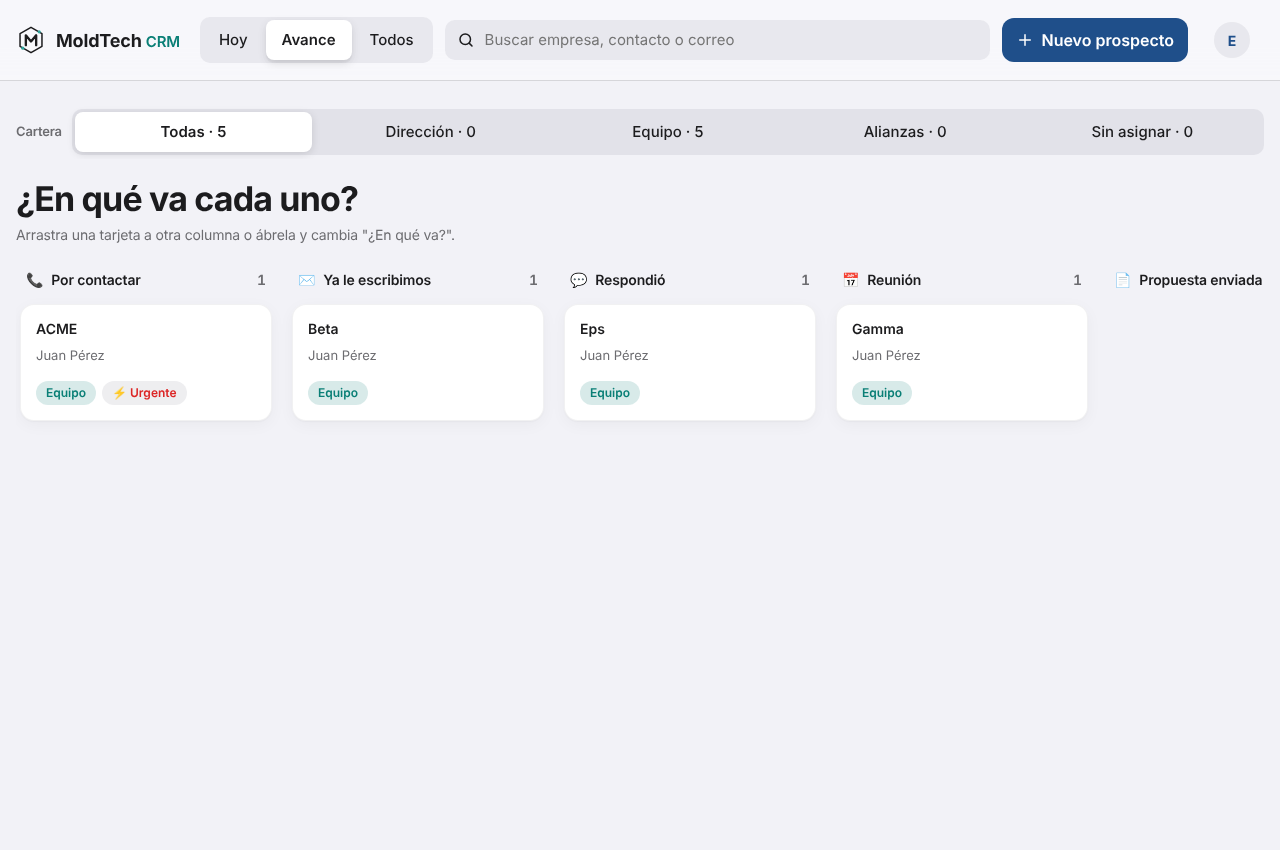
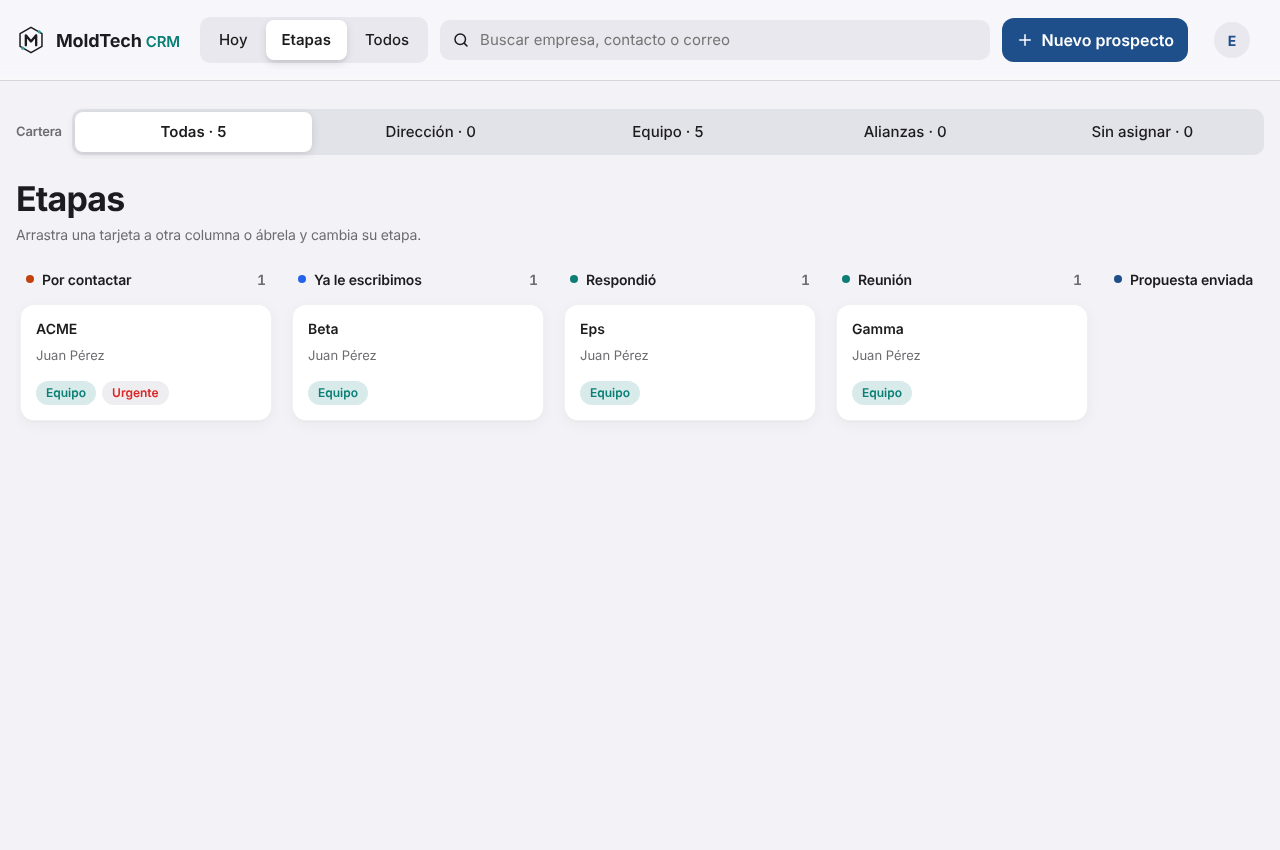
Etapa sin emojis, con color propio por etapa; pestaña Etapas
Claude-Session: https://claude.ai/code/session_01MitmXtYdvy7FH5b5YuCGFv

diff --git a/index.html b/index.html
@@ -361,11 +361,17 @@ button.kpi:active,.card:active,.row:active,.btn:not(:disabled):active,.tab:activ
 @media (max-width:720px){#dMsg{min-height:360px}}
 .chip.av0{background:color-mix(in srgb,var(--s-int) 15%,transparent);color:var(--s-int)}
 .chip.av1{background:color-mix(in srgb,var(--s-msg) 15%,transparent);color:var(--s-msg)}
-.chip.av2,.chip.av3{background:color-mix(in srgb,var(--s-reu) 15%,transparent);color:var(--s-reu)}
+.chip.av2{background:color-mix(in srgb,#8e44ec 14%,transparent);color:#8e44ec}.chip.av3{background:color-mix(in srgb,var(--s-reu) 15%,transparent);color:var(--s-reu)}
 .chip.av4{background:color-mix(in srgb,var(--primary) 15%,transparent);color:var(--primary)}
 .chip.av5{background:color-mix(in srgb,var(--s-cli) 15%,transparent);color:var(--s-cli)}
 .chip.av6{background:var(--muted);color:var(--muted-fg)}
 #f_notas{min-height:200px;line-height:1.55;font-size:16px}
+.col-h.av0{color:var(--s-int)}.col-h.av1{color:var(--s-msg)}.col-h.av2{color:#8e44ec}.col-h.av3{color:var(--s-reu)}.col-h.av4{color:var(--primary)}.col-h.av5{color:var(--s-cli)}.col-h.av6{color:var(--muted-fg)}
+#dAvance{font-weight:600}
+.avsel.av0{color:var(--s-int)}.avsel.av1{color:var(--s-msg)}.avsel.av2{color:#8e44ec}.avsel.av3{color:var(--s-reu)}.avsel.av4{color:var(--primary)}.avsel.av5{color:var(--s-cli)}.avsel.av6{color:var(--muted-fg)}
+.avsel option{color:var(--fg)}
+.card[class*=cav]{border-left:4px solid var(--c,transparent)}.cav0{--c:var(--s-int)}.cav1{--c:var(--s-msg)}.cav2{--c:#8e44ec}.cav3{--c:var(--s-reu)}.cav4{--c:var(--primary)}.cav5{--c:var(--s-cli)}.cav6{--c:var(--muted-fg)}
+@media (prefers-color-scheme:dark){.chip.av2,.col-h.av2,.avsel.av2{color:#bf8bff}.cav2{--c:#bf8bff}}
 </style>
 </head>
 <body>
@@ -389,7 +395,7 @@ button.kpi:active,.card:active,.row:active,.btn:not(:disabled):active,.tab:activ
   </div>
   <div class="tabs" role="tablist" aria-label="Vistas">
     <button class="tab" role="tab" data-view="hoy" aria-selected="true"><svg class="ico tico" viewBox="0 0 24 24" aria-hidden="true"><rect x="3" y="4.5" width="18" height="16" rx="3"/><path d="M3 9.5h18M8 2.5v4M16 2.5v4"/></svg><span>Hoy</span></button>
-    <button class="tab" role="tab" data-view="pipeline" aria-selected="false"><svg class="ico tico" viewBox="0 0 24 24" aria-hidden="true"><rect x="3" y="4" width="5" height="16" rx="1.5"/><rect x="10" y="4" width="5" height="11" rx="1.5"/><rect x="17" y="4" width="4" height="7" rx="1.5"/></svg><span>Avance</span></button>
+    <button class="tab" role="tab" data-view="pipeline" aria-selected="false"><svg class="ico tico" viewBox="0 0 24 24" aria-hidden="true"><rect x="3" y="4" width="5" height="16" rx="1.5"/><rect x="10" y="4" width="5" height="11" rx="1.5"/><rect x="17" y="4" width="4" height="7" rx="1.5"/></svg><span>Etapas</span></button>
     <button class="tab" role="tab" data-view="lista" aria-selected="false"><svg class="ico tico" viewBox="0 0 24 24" aria-hidden="true"><circle cx="9" cy="8" r="3.5"/><path d="M2.5 20c.6-3.6 3.3-5.5 6.5-5.5s5.9 1.9 6.5 5.5M16 4.5a3.5 3.5 0 0 1 0 7M18.5 14.8c1.7.8 2.8 2.5 3 5.2"/></svg><span>Todos</span></button>
   </div>
   <label class="search"><svg class="ico" aria-hidden="true"><use href="#i-search"/></svg><input id="q" type="search" placeholder="Buscar empresa, contacto o correo" aria-label="Buscar"></label>
@@ -421,7 +427,7 @@ button.kpi:active,.card:active,.row:active,.btn:not(:disabled):active,.tab:activ
 
   <!-- PIPELINE -->
   <section id="v-pipeline" class="view" hidden>
-    <div><h1>¿En qué va cada uno?</h1><p class="sub">Arrastra una tarjeta a otra columna o ábrela y cambia "¿En qué va?".</p></div>
+    <div><h1>Etapas</h1><p class="sub">Arrastra una tarjeta a otra columna o ábrela y cambia su etapa.</p></div>
     <div class="board" id="board"></div>
   </section>
 
@@ -455,10 +461,10 @@ button.kpi:active,.card:active,.row:active,.btn:not(:disabled):active,.tab:activ
   <div class="d-body">
     <div class="sec">
       <div class="grid2">
-        <div class="field"><label for="dAvance">¿En qué va?</label><select id="dAvance"></select></div>
+        <div class="field"><label for="dAvance">Etapa</label><select id="dAvance"></select></div>
         <div class="field"><label for="dCartera">¿Quién lo atiende?</label><select id="dCartera"><option value="">Sin asignar</option><option value="Dirección">Dirección</option><option value="Equipo">Equipo</option><option value="Alianzas">Alianzas</option></select></div>
       </div>
-      <label class="field" style="flex-direction:row;align-items:center;gap:8px;font-size:15px"><input id="dUrg" type="checkbox" style="width:22px;height:22px;min-height:0">⚡ Es urgente</label>
+      <label class="field" style="flex-direction:row;align-items:center;gap:8px;font-size:15px"><input id="dUrg" type="checkbox" style="width:22px;height:22px;min-height:0">Urgente</label>
       <p class="note" id="dAccion"></p>
     </div>
 
@@ -671,8 +677,7 @@ button.kpi:active,.card:active,.row:active,.btn:not(:disabled):active,.tab:activ
   const PRIO = {Alta:0,Media:1,Baja:2,Archivar:3};
   /* "¿En qué va?": un solo paso de avance, calculado de etapa+estado (el backend no cambia) */
   const AVANCES = ['Por contactar','Ya le escribimos','Respondió','Reunión','Propuesta enviada','Cliente','No le interesa'];
-  const AV_ICO = {'Por contactar':'📞','Ya le escribimos':'✉','Respondió':'💬','Reunión':'📅','Propuesta enviada':'📄','Cliente':'✅','No le interesa':'⏸'};
-  function avance(r){
+    function avance(r){
     if (r.estado==='Ganado' || r.etapa==='Cliente') return 'Cliente';
     if (['Perdido','Archivado'].includes(r.estado) || r.etapa==='Sin ajuste') return 'No le interesa';
     if (r.estado==='Reunión agendada' || r.etapa==='Reunión') return 'Reunión';
@@ -706,7 +711,7 @@ button.kpi:active,.card:active,.row:active,.btn:not(:disabled):active,.tab:activ
   function toast(t){ const el=$('#toast'); el.textContent=t; el.hidden=false; clearTimeout(toast.t); toast.t=setTimeout(()=>el.hidden=true,2600); }
   const stCls = e => 'st-' + String(e).split(' ')[0];
   const chipEtapa = e => `<span class="chip ${stCls(e)}"><span class="dot"></span>${esc(ETAPA_LBL[e]||e)}</span>`;
-  const chipAv = r => `<span class="chip av av${AVANCES.indexOf(avance(r))}">${AV_ICO[avance(r)]} ${esc(avance(r))}</span>` + (esUrgente(r) && !['Cliente','No le interesa'].includes(avance(r)) ? '<span class="chip st-Urgente">⚡ Urgente</span>' : '');
+  const chipAv = r => `<span class="chip av av${AVANCES.indexOf(avance(r))}"><span class="dot"></span>${esc(avance(r))}</span>` + (esUrgente(r) && !['Cliente','No le interesa'].includes(avance(r)) ? '<span class="chip st-Urgente">Urgente</span>' : '');
   const chipCons = c => c === 'Sí' ? '<span class="chip ok">Acepta mensajes</span>' : c === 'No' ? '<span class="chip warn">No acepta promociones</span>' : '';
 
   /* ---------- carga ---------- */
@@ -758,8 +763,8 @@ button.kpi:active,.card:active,.row:active,.btn:not(:disabled):active,.tab:activ
     // pipeline
     $('#board').innerHTML = AVANCES.map((e,i) => {
       const items = data.filter(r => avance(r)===e && match(r)).sort(ordenar);
-      return `<section class="col" data-etapa="${esc(e)}"><div class="col-h"><span>${AV_ICO[e]}</span><span style="color:var(--fg)">${esc(e)}</span><span class="n">${items.length}</span></div>` +
-        items.map(r => `<button type="button" class="card" draggable="true" data-id="${esc(r.id)}"><span class="t">${esc(r.empresa)}</span><span class="m">${esc(r.nombre)}${r.puesto? ' · '+esc(r.puesto):''}</span><span class="a">${esc(r.accion||'')}</span><span class="foot">${chipCart(r.cartera)}${esUrgente(r)?'<span class="chip st-Urgente">⚡ Urgente</span>':''}${r.proximo?`<span class="chip">${fmtD(r.proximo)}</span>`:''}${r.maquinas?`<span class="chip">${esc(r.maquinas)} máq.</span>`:''}</span></button>`).join('') + '</section>';
+      return `<section class="col" data-etapa="${esc(e)}"><div class="col-h av${i}"><span class="dot"></span><span style="color:var(--fg)">${esc(e)}</span><span class="n">${items.length}</span></div>` +
+        items.map(r => `<button type="button" class="card cav${i}" draggable="true" data-id="${esc(r.id)}"><span class="t">${esc(r.empresa)}</span><span class="m">${esc(r.nombre)}${r.puesto? ' · '+esc(r.puesto):''}</span><span class="a">${esc(r.accion||'')}</span><span class="foot">${chipCart(r.cartera)}${esUrgente(r)?'<span class="chip st-Urgente">Urgente</span>':''}${r.proximo?`<span class="chip">${fmtD(r.proximo)}</span>`:''}${r.maquinas?`<span class="chip">${esc(r.maquinas)} máq.</span>`:''}</span></button>`).join('') + '</section>';
     }).join('');
 
     // lista
@@ -829,7 +834,7 @@ button.kpi:active,.card:active,.row:active,.btn:not(:disabled):active,.tab:activ
   let dragId = null;
   $('#board').addEventListener('dragstart', e => { const c=e.target.closest('.card'); if(c){ dragId=c.dataset.id; e.dataTransfer.effectAllowed='move'; } });
   $('#board').addEventListener('dragover', e => { const col=e.target.closest('.col'); if(col&&dragId){ e.preventDefault(); document.querySelectorAll('.col.over').forEach(x=>x.classList.remove('over')); col.classList.add('over'); } });
-  $('#board').addEventListener('drop', e => { const col=e.target.closest('.col'); document.querySelectorAll('.col.over').forEach(x=>x.classList.remove('over')); if(!col||!dragId) return; e.preventDefault(); const r=data.find(x=>x.id===dragId); dragId=null; if(r && avance(r)!==col.dataset.etapa){ const old=avance(r); setAvance(r, col.dataset.etapa); render(); guardar(r, 'Avance: '+old+' → '+avance(r)); } });
+  $('#board').addEventListener('drop', e => { const col=e.target.closest('.col'); document.querySelectorAll('.col.over').forEach(x=>x.classList.remove('over')); if(!col||!dragId) return; e.preventDefault(); const r=data.find(x=>x.id===dragId); dragId=null; if(r && avance(r)!==col.dataset.etapa){ const old=avance(r); setAvance(r, col.dataset.etapa); render(); guardar(r, 'Etapa: '+old+' → '+avance(r)); } });
 
   /* ---------- ficha ---------- */
   const onlyDigits = t => String(t||'').replace(/\D/g,'');
@@ -840,8 +845,8 @@ button.kpi:active,.card:active,.row:active,.btn:not(:disabled):active,.tab:activ
     $('#dTitle').textContent = r.empresa || 'Sin empresa';
     $('#dSub').textContent = [r.nombre, r.puesto].filter(Boolean).join(' · ');
     $('#dChips').innerHTML = chipAv(r) + chipCons(r.consentimiento) + (r.origen?`<span class="chip">${esc(r.origen)}</span>`:'');
-    $('#dAvance').innerHTML = AVANCES.map(e=>`<option value="${esc(e)}" ${e===avance(r)?'selected':''}>${AV_ICO[e]} ${esc(e)}</option>`).join('');
-    $('#dUrg').checked = esUrgente(r);
+    $('#dAvance').innerHTML = AVANCES.map(e=>`<option value="${esc(e)}" ${e===avance(r)?'selected':''}>${esc(e)}</option>`).join('');
+    $('#dUrg').checked = esUrgente(r); $('#dAvance').className = 'avsel av' + AVANCES.indexOf(avance(r));
     $('#dCartera').value = r.cartera || '';
     const cuentas = [...new Set(['jl.rangel@moldtech.mx', 'le.rosas@moldtech.mx', ...remitentes])];
     $('#dFrom').innerHTML = cuentas.map(m => {
@@ -913,7 +918,7 @@ button.kpi:active,.card:active,.row:active,.btn:not(:disabled):active,.tab:activ
     try{ const s = await gs('guardar', r, nota||''); const i=data.findIndex(x=>x.id===s.id); if(i>=0) data[i]=s; else data.push(s); render(); if(abierto && abierto.id===s.id) llenarFicha(s); return s; }
     catch(e){ toast('No se pudo guardar. Revisa tu conexión e inténtalo de nuevo.'); throw e; }
   }
-  $('#dAvance').addEventListener('change', () => { const r=abierto, old=avance(r); setAvance(r, $('#dAvance').value); if ($('#dUrg').checked && ['Nuevo','Contactado','Respondió'].includes(r.estado)) r.etapa='Urgente'; guardar(r,'Avance: '+old+' → '+avance(r)).then(()=>toast('Avance actualizado')); });
+  $('#dAvance').addEventListener('change', () => { const r=abierto, old=avance(r); setAvance(r, $('#dAvance').value); if ($('#dUrg').checked && ['Nuevo','Contactado','Respondió'].includes(r.estado)) r.etapa='Urgente'; $('#dAvance').className = 'avsel av' + AVANCES.indexOf(avance(r)); guardar(r,'Etapa: '+old+' → '+avance(r)).then(()=>toast('Etapa actualizada')); });
   $('#dUrg').addEventListener('change', () => { const r=abierto; if ($('#dUrg').checked) r.etapa='Urgente'; else if (r.etapa==='Urgente') r.etapa='Interesado'; guardar(r, $('#dUrg').checked ? 'Marcado como urgente' : 'Ya no es urgente').then(()=>toast('Listo')); });
   $('#dCartera').addEventListener('change', () => { const r=abierto, old=r.cartera||'Sin asignar'; r.cartera=$('#dCartera').value; guardar(r,'Cartera: '+old+' → '+(r.cartera||'Sin asignar')).then(()=>toast('Cartera actualizada')); });
 

diff --git a/AGENTS.md b/AGENTS.md
@@ -48,7 +48,7 @@ Todas, salvo `login`, reciben `token` como primer argumento. Sesión de 8 h en C
 - Para agregar columnas: añadir al final de `COLS` en el backend (la hoja agrega el encabezado sola).
 
 ## "¿En qué va?" (pantalla)
-La pantalla ya no muestra Etapa y Estado por separado: un solo campo **¿En qué va?** (Por contactar · Ya le escribimos · Respondió · Reunión · Propuesta enviada · Cliente · No le interesa) más la casilla **⚡ Es urgente**. Se calcula y se guarda con `avance(r)` / `setAvance(r, a)` sobre las columnas `etapa` y `estado` (el backend no cambió). Pestañas: Hoy · Avance · Todos.
+La pantalla ya no muestra Etapa y Estado por separado: un solo campo **Etapa** (con color por etapa, sin emojis) (Por contactar · Ya le escribimos · Respondió · Reunión · Propuesta enviada · Cliente · No le interesa) más la casilla **Urgente**. Se calcula y se guarda con `avance(r)` / `setAvance(r, a)` sobre las columnas `etapa` y `estado` (el backend no cambió). Pestañas: Hoy · Etapas · Todos.
 
 ## Pantalla (`index.html`)
 Un solo archivo (HTML + CSS + JS, sin build). Estilo Apple (HIG, skill ehmo/platform-design-skills web+iOS): letra del sistema (SF), barra translúcida, controles segmentados, modo claro/oscuro automático; en celular, pestañas abajo y ficha como hoja de iPhone. Instalable como app (manifest.json + apple-touch-icon.png).
